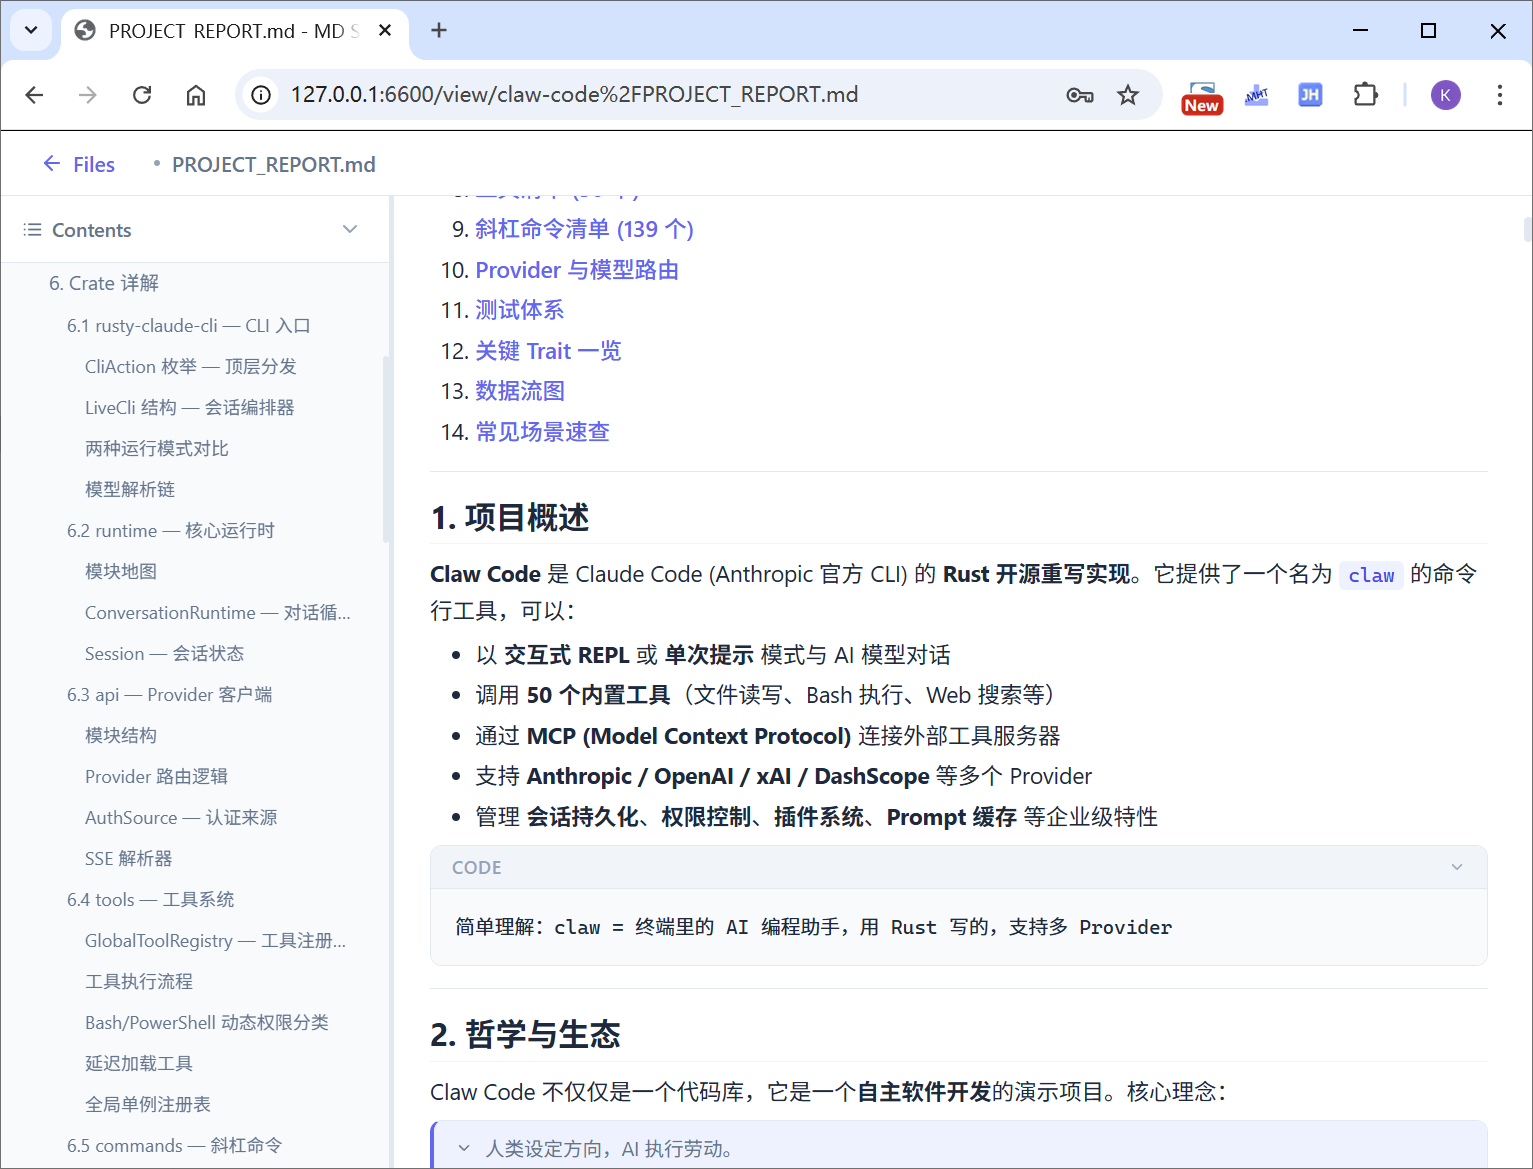
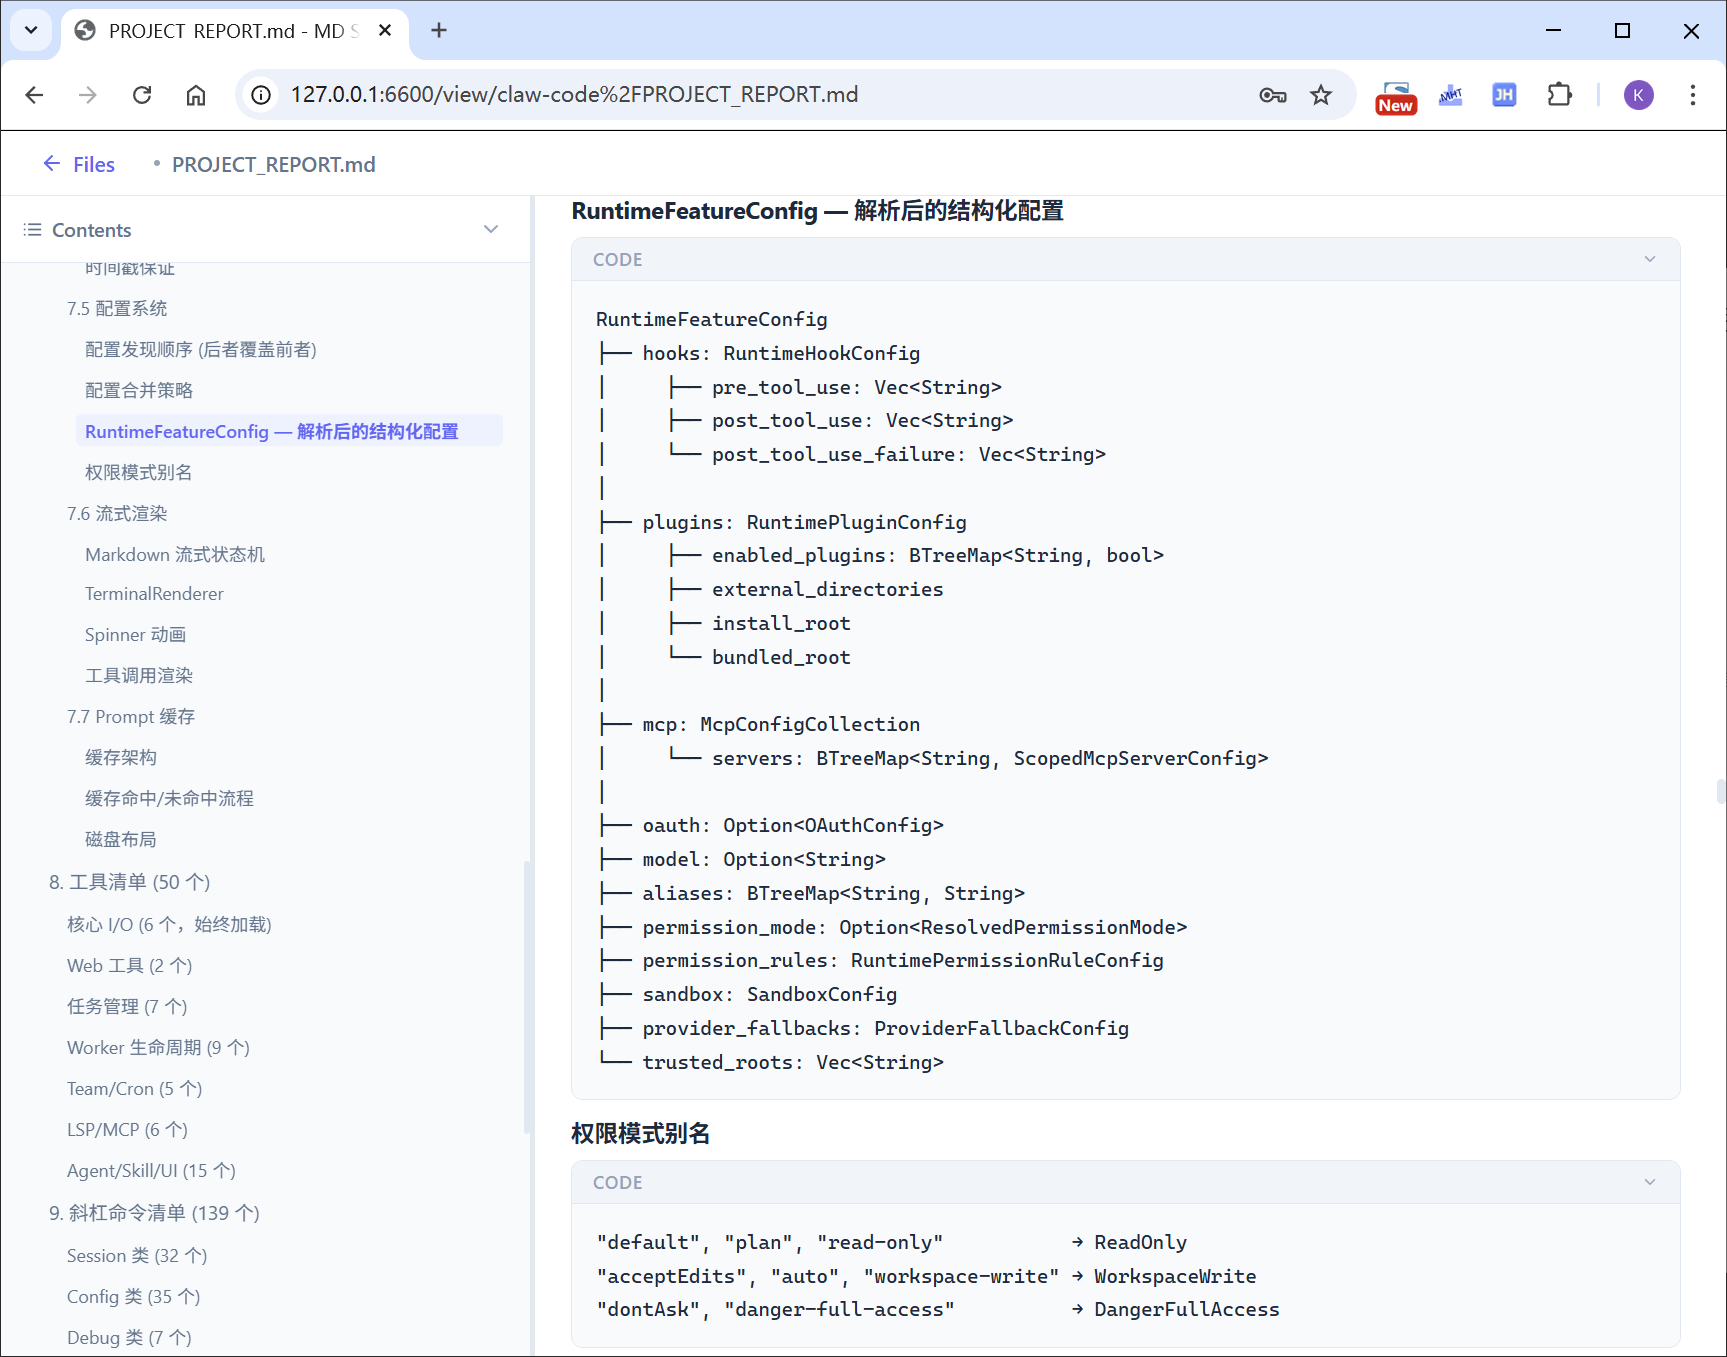
update TOC scroll

diff --git a/static/js/md-viewer.js b/static/js/md-viewer.js
@@ -130,11 +130,16 @@ const MdViewer = {
 
         if (headings.length === 0) {
             tocEl.textContent = "No headings";
+            this._headings = [];
+            this._tocLinks = [];
             return;
         }
 
+        this._headings = Array.from(headings);
+        this._tocLinks = [];
+
         const ul = document.createElement("ul");
-        headings.forEach((h, i) => {
+        this._headings.forEach((h, i) => {
             const id = "toc-heading-" + i;
             h.id = id;
             const li = document.createElement("li");
@@ -142,14 +147,63 @@ const MdViewer = {
             const a = document.createElement("a");
             a.href = "#" + id;
             a.textContent = h.textContent;
+            a.dataset.tocIndex = i;
             a.addEventListener("click", (e) => {
                 e.preventDefault();
                 h.scrollIntoView({ behavior: "smooth", block: "start" });
             });
             li.appendChild(a);
             ul.appendChild(li);
+            this._tocLinks.push(a);
         });
         tocEl.appendChild(ul);
+        this.initScrollSync();
+    },
+
+    // ---- Scroll Sync: highlight active TOC item ----
+    _headings: [],
+    _tocLinks: [],
+    _scrollSyncInited: false,
+    _activeTocIndex: -1,
+
+    initScrollSync() {
+        if (this._scrollSyncInited) return;
+        this._scrollSyncInited = true;
+
+        const wrapper = document.getElementById("md-content-wrapper");
+        const tocEl = document.getElementById("toc-content");
+
+        wrapper.addEventListener("scroll", () => {
+            const idx = this._findActiveHeading(wrapper);
+            if (idx === this._activeTocIndex) return;
+            this._activeTocIndex = idx;
+
+            this._tocLinks.forEach((a, i) => {
+                a.classList.toggle("toc-active", i === idx);
+            });
+
+            if (idx >= 0 && this._tocLinks[idx]) {
+                const link = this._tocLinks[idx];
+                link.scrollIntoView({ block: "nearest", behavior: "smooth" });
+            }
+        });
+    },
+
+    _findActiveHeading(wrapper) {
+        const scrollTop = wrapper.scrollTop;
+        const offset = 8;
+        let active = -1;
+
+        for (let i = 0; i < this._headings.length; i++) {
+            const h = this._headings[i];
+            const top = h.getBoundingClientRect().top - wrapper.getBoundingClientRect().top + scrollTop;
+            if (top <= scrollTop + offset) {
+                active = i;
+            } else {
+                break;
+            }
+        }
+        return active;
     },
 
     // ---- TOC Toggle ----

diff --git a/static/css/style.css b/static/css/style.css
@@ -542,6 +542,12 @@ th.sort-desc .sort-indicator::after {
     background: var(--primary-light);
 }
 
+.toc-content li a.toc-active {
+    color: var(--primary);
+    background: var(--primary-light);
+    font-weight: 600;
+}
+
 .toc-content .toc-h1 { padding-left: 14px; font-weight: 600; }
 .toc-content .toc-h2 { padding-left: 26px; }
 .toc-content .toc-h3 { padding-left: 38px; font-size: 12px; }
